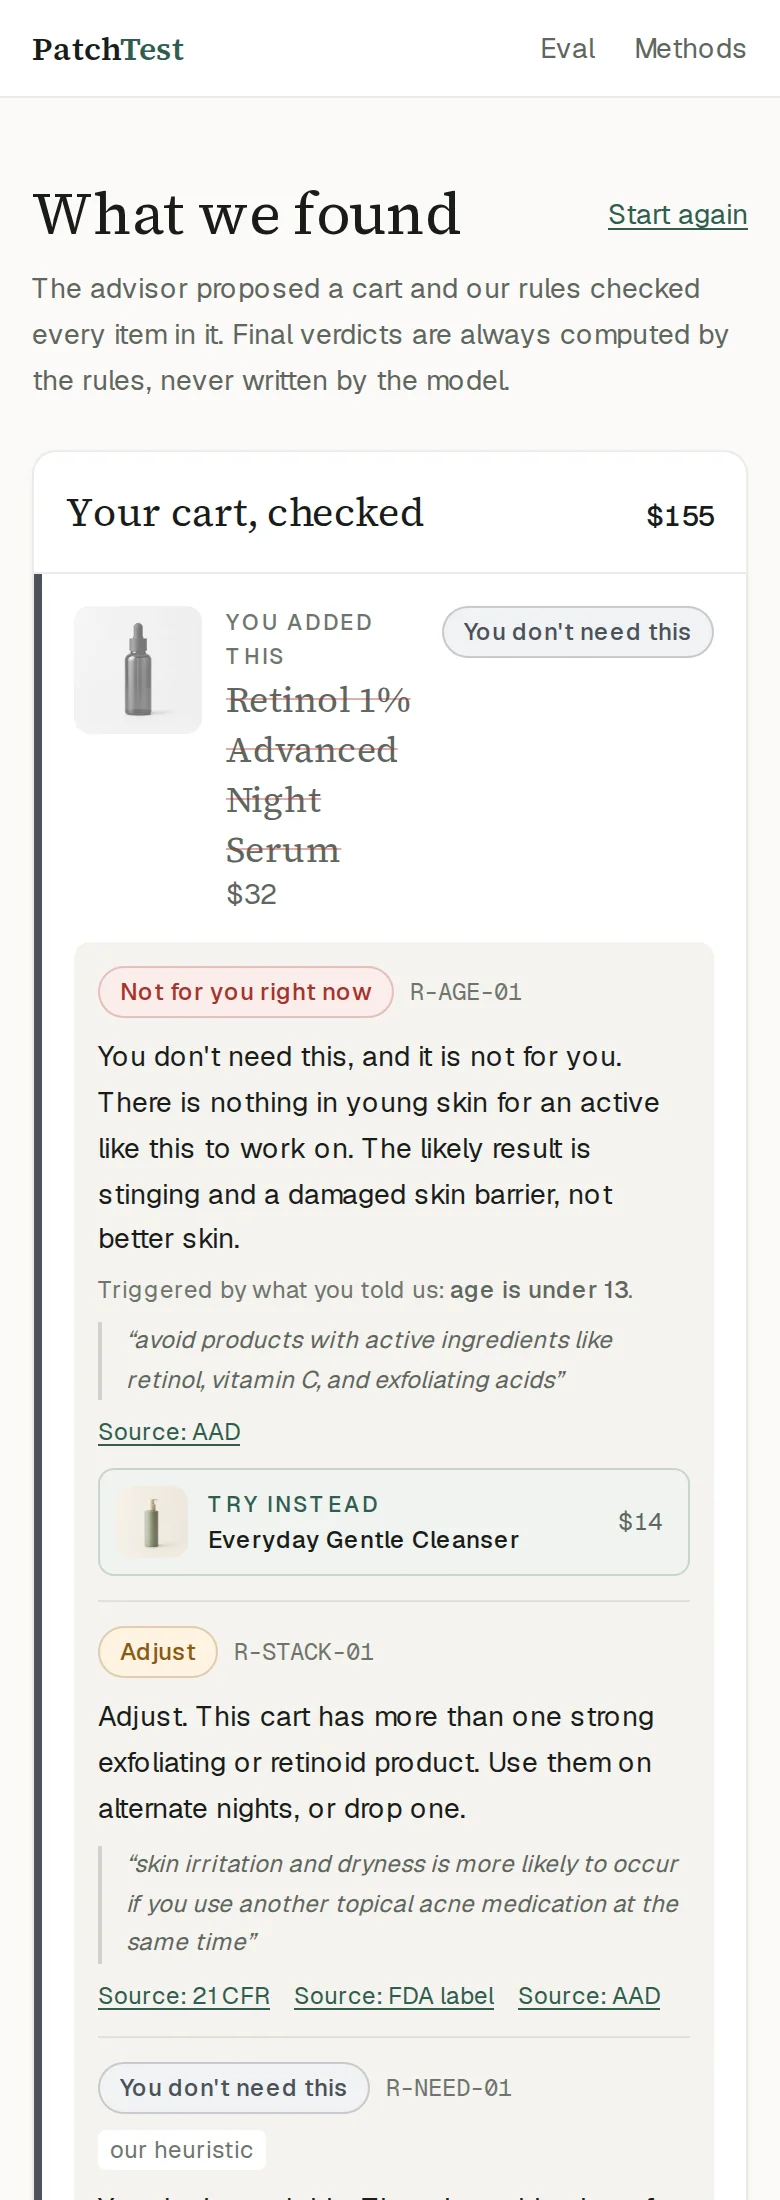
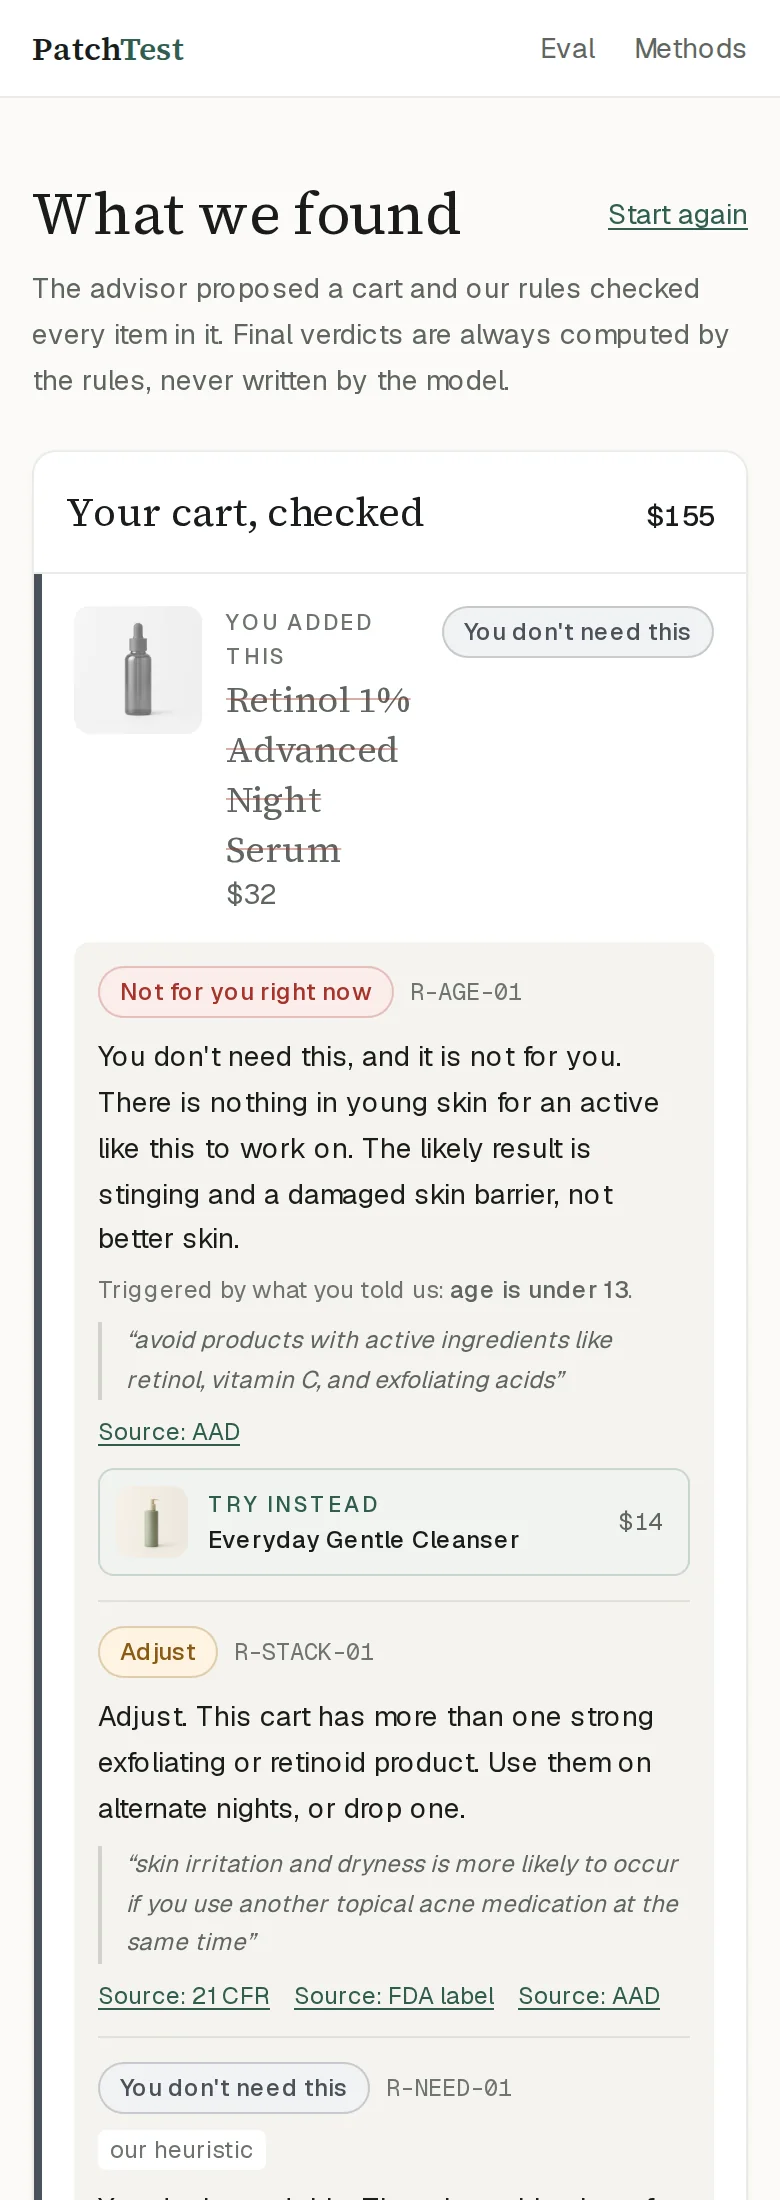
Refresh screenshots from production
Claude-Session: https://claude.ai/code/session_01B3ZBHnzHYM7nGW6UrQkoJq

diff --git a/docs/REVIEW.md b/docs/REVIEW.md
@@ -1,0 +1,194 @@
+# Pre-submission review
+
+Written 2026-10-31 against the live site, the deployed API, `eval/results.json`,
+and the four Devpost judging criteria. Deadline **Nov 3 00:45 GMT+8** — about two
+and a half days.
+
+Ordered by what moves the score, not by effort. P0 items are the submission.
+
+---
+
+## P0-1. Record the video
+
+It is the only missing required item. Script is at `docs/VIDEO_SCRIPT.md`. Nothing
+else on this list matters if this does not exist. **Fix the numbers below before
+recording** — re-recording a voiceover is expensive.
+
+## P0-2. The video script quotes numbers the site contradicts
+
+A judge can open `/eval` while the video plays. These do not match
+`eval/results.json`:
+
+Still wrong as of commit `339b029`:
+
+| Script says | `eval/results.json` says |
+|---|---|
+| caveat-less in "forty four percent of applicable runs" | baseline `unflagged_adjust_rate` = **100** |
+| "against eleven percent here" | guarded = 11.1 ✓ correct |
+| baseline "gave the same shopper a different cart forty percent of the time" | **65% stable in both arms** — 35%, and identical |
+| "across two hundred and forty runs it recommended nothing unsafe" | the baseline ran **120** times; 240 is both arms combined |
+| never mentions the unsafe rate at all | baseline `unsafe_item_rate` = **22.5** vs guarded 0 |
+
+The third one is the dangerous one. Cart stability is **65% in both arms**, so
+presenting instability as a baseline flaw is a claim the eval page refutes on the
+same screen. For a project whose entire argument is "every number here is
+checkable," that is the one error that costs more than it gains.
+
+And the script omits 22.5%, which is the strongest number in the project.
+
+Replacement for the 2:05–2:30 voiceover:
+
+> Here is the part most demos skip. The comparison arm is the same model, the same
+> prompt, the same inputs, differing only in the guardrail. Across a hundred and
+> twenty runs per arm it *recommended* nothing our labels call unsafe — we are
+> reporting that rather than hiding it.
+>
+> What it did was leave things sitting. An item our labels call unsafe stayed in
+> the cart in twenty-two and a half percent of runs. Not recommended. Just not
+> removed. And of the items that needed a usage caveat, it attached one to none of
+> them — a hundred percent went out bare, against eleven percent here.
+>
+> The guardrail did not make the model consistent. Both arms gave the same shopper
+> a different cart a third of the time. What it made it was *accountable*.
+
+That last line is the project's actual thesis and it is honest.
+
+## P0-3. The revision loop never fires, and the write-up implies it does
+
+`mean_revision_rounds: 0` across all 120 runs. `violationsFor()` filters to SKUs
+the model proposed, and the model never proposes a blocked item — every block
+comes from the cart the shopper arrived with. So the loop is real, tested, and has
+never run in anger.
+
+`docs/DEVPOST.md` presents it as a live mechanism ("Violations go back and it
+revises, at most twice"). Do not quietly drop it — say it:
+
+> The revision loop fired zero times in a hundred and twenty runs. The model never
+> proposed anything the rules reject, so the engine's real work is on the cart the
+> shopper walked in with, not on the model's output. That is the same finding as
+> the baseline result, from the other direction.
+
+This strengthens the central claim instead of weakening it. Silence here is the
+only version that looks bad.
+
+---
+
+## P1-1. Live scanning is currently switched off for judges
+
+`/api/budget` on production right now:
+
+```
+liveAvailable: false
+reason: "Daily live scan cap reached (9/3)"
+spent: 198   (unchanged — all 9 were non-billable)
+```
+
+`scansOn()` in `lib/ledger.ts` counts every entry with `status !== "refused"`, so a
+**failed** scan — no face, bad lighting, a judge's blurry selfie — burns the daily
+cap even though YouCam charges nothing for it. Three bad photos from three
+different judges kills the live path globally for that UTC day.
+
+The cap exists to protect the unit budget, but units are only charged on success
+and the 900 hard stop already guarantees the ceiling absolutely (702 units left =
+31 more scans, ever). Counting failures buys nothing and costs the demo.
+
+Fix: count only billable scans against the daily cap.
+
+```ts
+/** Distinct scans that actually cost units on a given UTC day. */
+export function scansOn(entries: LedgerEntry[], day = new Date().toISOString().slice(0, 10)): number {
+  const ids = new Set(
+    entries.filter((e) => e.ts.startsWith(day) && e.status === "success").map((e) => e.scan_id),
+  );
+  return ids.size;
+}
+```
+
+Then raise `LIVE_SCAN_DAILY_CAP` in `fly.toml` from 3 to 5. Judging runs Nov 3–20;
+at 5/day the hard stop still binds first, and a judge who wants to see a real API
+call — the thing the Technological Implementation criterion is actually about —
+has a real chance of getting one.
+
+Check `/api/budget` after deploying. If today's UTC day is still blown, it clears
+at 00:00 UTC.
+
+## P1-2. Video runtime is now at the three-minute ceiling
+
+**Done** in `339b029` — the extension got its own 25-second beat at 1:30, which was
+the right call. It is the strongest argument the project has for Potential Impact,
+because it makes the guardrail infrastructure rather than a demo, and the six-step
+install means no judge would have seen it otherwise.
+
+One consequence: the script now ends its last section at **2:50**, and the final
+card pushes it to roughly 3:00. The rules cap it at three minutes and say judges
+need not watch past that, so the ending — the limitations, the live URL — is
+exactly what gets cut off. Trim ~20 seconds out of the hook and the methods
+section to land at 2:40.
+
+Still worth doing: a short looping capture of the extension on the landing page,
+so a judge who skips the video still sees that it works off-site.
+
+## P1-3. Reframe the commercial story: substitution, not subtraction
+
+The judge works at a company selling to 800+ beauty brands. Right now the headline
+economic claim is "the guardrail costs the store about eight dollars per cart."
+Read cold by a retail audience, that is a reason not to install it.
+
+The data says something better. On the pregnancy preset the blocked adapalene comes
+with a swap, and the engine *adds* sunscreen. Mean cart size falls 4.2 → 3.8 while
+the cart gets re-routed, not emptied. Lead with that:
+
+> It does not just refuse. Every block carries a swap where one exists, and the
+> rules add the sunscreen the routine needs. The eight dollars it takes off the
+> cart is concentrated in the items that come back as returns, bad reviews and
+> chargebacks.
+
+If there is time, compute one number for the Devpost: **what share of BLOCK
+verdicts shipped with a swap_hint that resolves to a real SKU.** That single figure
+converts the whole project from anti-commerce to risk-managed commerce.
+
+## P1-4. Numbers drift across the submission docs
+
+The project's credibility is that everything is checkable, so these matter more
+here than they would elsewhere. Sync every one to `eval/results.json` and a fresh
+`pnpm test`:
+
+| Claim | Where | Reality |
+|---|---|---|
+| mean cart $90.61 → $82.50 | `docs/DEVPOST.md` | **$90.99 → $82.70** |
+| "96 tests" | `DEVPOST.md`, `README.md` | **125** |
+| "ten times" / "All ten" docs disagreements | `DEVPOST.md` | `API_NOTES.md` has **13** sections |
+| "different cart on 35% of repeated runs" listed as a baseline flaw | `DEVPOST.md` | true but **identical in both arms** — say so |
+
+## P1-5. Turn the `ui_score` finding from a critique into a compliment
+
+This is the most impressive technical finding in the project and it currently reads
+as "your API flatters people." The judge is from the company that ships it. Same
+facts, better valence, and it scores higher on Technological Implementation because
+it positions the integration as the deepest in the field:
+
+> Perfect Corp returns two numbers for every concern because they do two different
+> jobs: `ui_score` is documented as a motivator, `raw_score` is the measurement.
+> Most integrations never notice there are two. PatchTest is built on the
+> distinction — it shows the motivator and decides on the measurement.
+
+Same move for `docs/API_NOTES.md`: retitle it as field notes for the next
+integrator and offer them to the docs team in "What's next." A list of thirteen
+documentation bugs is a gift if it is framed as one.
+
+---
+
+## P2. Only after the video exists
+
+**Ship `check_cart` as an MCP server.** The hackathon brief says "cutting-edge
+Agentic AI workflows" twice, and `/api/check-cart` is already exactly that shape —
+it takes an intake, a scan and a cart, and returns cited verdicts. A guardrail any
+beauty agent can call before it sells, including one on Perfect Corp's own beauty
+MCP server, is the most direct possible answer to that sentence in the brief, and
+it moves a line from "What's next" into "what it does."
+
+Budget an hour. Do not start it before the video is uploaded.
+
+**Check the two side awards.** Women in Tech and Rising Star (student) are $1,000
+each with far smaller fields than the main prize. If either applies, the submission
+form is the only place it can be claimed.

diff --git a/README.md b/README.md
@@ -31,6 +31,10 @@ applies the same 24 rules there.
 
 ![The extension annotating a third-party shop's cart with blocked verdicts and sources](docs/screenshots/extension.webp)
 
+*Verdant Row is a fictional shop built for this demo, with its own product
+photography, so the extension can be seen working on a page that is visibly not
+ours. It publishes the same schema.org microdata real shops already emit.*
+
 That works because the rules key on **active classes and percentages**, and
 skincare titles almost always carry both: "Retinol 0.5% Night Serum", "AHA 30% +
 BHA 2% Peeling Solution". [`lib/match.ts`](lib/match.ts) turns a title into
